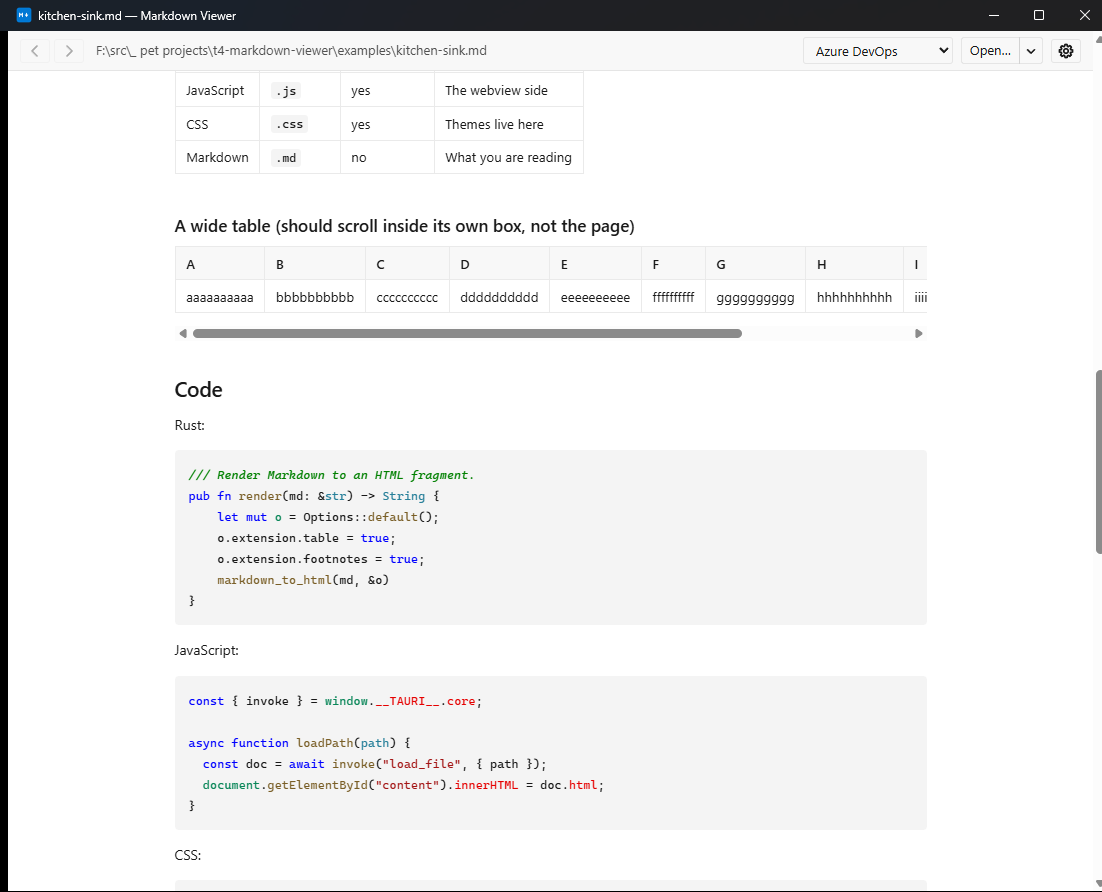
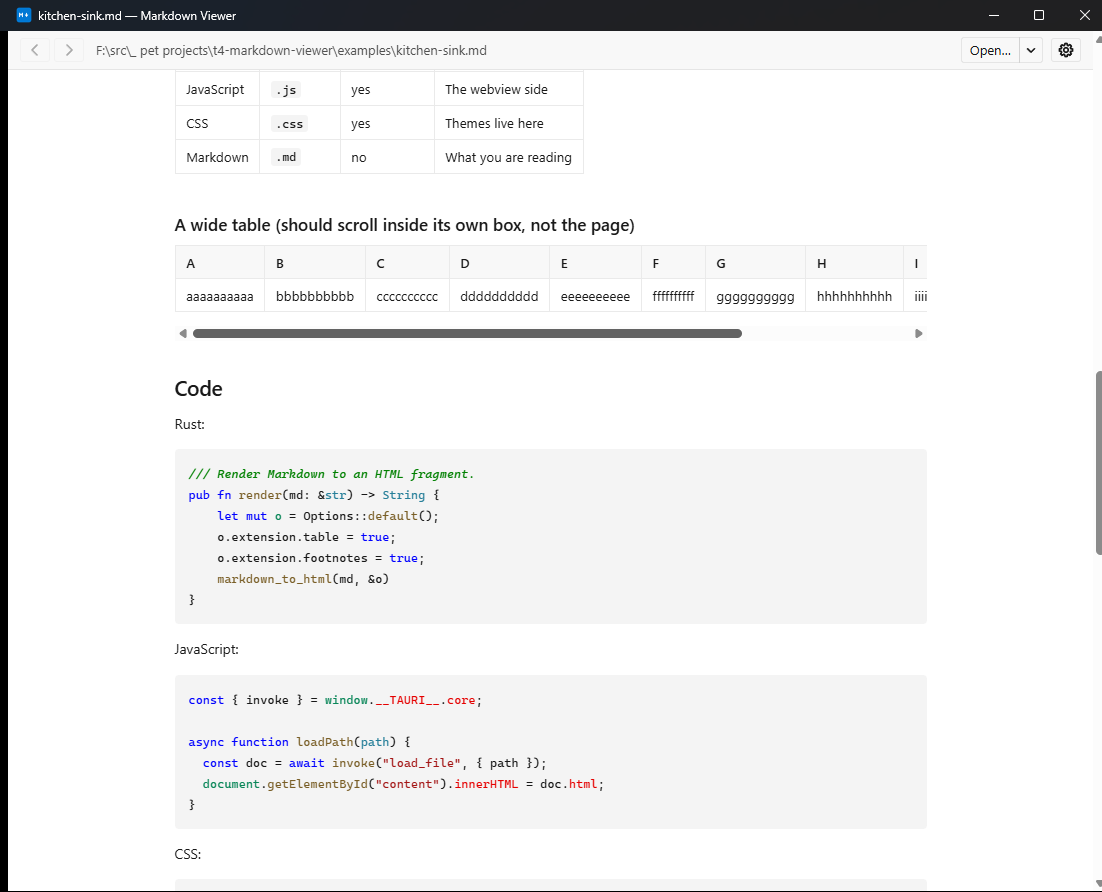
Move the theme picker into Settings, as radios rather than a dropdown
The toolbar is down to Open… and the gear; both pickers now live behind
the gear, where there is room to explain what they do.

Radio buttons instead of the <select>, and that is the substantive part.
A native select's popup is an OS-level widget: `var()` does not resolve
inside it and `color-scheme` is ignored, so every theme file had to carry
two literal colours purely to stop its own dropdown rendering near-white
text on a near-white popup. Twelve such rules are deleted here, the
authoring guide no longer has to explain the trap, and a half-written
theme can no longer produce an unreadable list. Radios also give the
preview for free: arrow keys walk a radio group firing `change` on each
one, so passing over a theme applies it.

Live preview is the reason the backdrop drops from 35% to 12%. A modal
scrim normally wants to be emphatic, but this one sits over the very
thing being previewed, and dimming it lies about the colours on offer.

F8 now works while the dialog is open, since the theme list is in there.
Everything else still yields to the dialog while it is modal.

Verified on a build: picking a theme re-themes the document and the
dialog behind it and writes config.json; F8 with the dialog open moves
the radio and applies; merely opening the dialog writes nothing.

diff --git a/src/app.js b/src/app.js
@@ -12,7 +12,7 @@ const els = {
   forward: document.getElementById("fwd-btn"),
   docName: document.getElementById("doc-name"),
   tabs: document.getElementById("tabs"),
-  picker: document.getElementById("theme-picker"),
+  themeList: document.getElementById("theme-list"),
   openBtn: document.getElementById("open-btn"),
   openMore: document.getElementById("open-more"),
   openMenu: document.getElementById("open-menu"),
@@ -660,11 +660,17 @@ function onTabClick(event) {
 
 /* ---------------- themes ---------------- */
 
+function checkTheme(name) {
+  for (const radio of els.themeList.querySelectorAll("input")) {
+    radio.checked = radio.value === name;
+  }
+}
+
 async function applyTheme(name) {
   try {
     els.themeStyle.textContent = await invoke("read_theme", { name });
     state.theme = name;
-    els.picker.value = name;
+    checkTheme(name);
   } catch (err) {
     console.error("theme load failed", name, err);
   }
@@ -677,15 +683,23 @@ async function selectTheme(name) {
 
 async function loadThemeList() {
   state.themes = await invoke("list_themes");
-  els.picker.replaceChildren(
+  els.themeList.replaceChildren(
     ...state.themes.map((t) => {
-      const opt = document.createElement("option");
-      opt.value = t.name;
-      opt.textContent = t.label;
-      return opt;
+      const radio = document.createElement("input");
+      radio.type = "radio";
+      radio.name = "theme";
+      radio.value = t.name;
+      // Arrow keys move between radios in a group and fire `change` on each
+      // one, so walking the list previews every theme as you pass it.
+      radio.addEventListener("change", () => {
+        if (radio.checked) selectTheme(t.name);
+      });
+      const label = document.createElement("label");
+      label.append(radio, t.label);
+      return label;
     }),
   );
-  if (state.theme) els.picker.value = state.theme;
+  if (state.theme) checkTheme(state.theme);
 }
 
 function cycleTheme(step) {
@@ -738,7 +752,13 @@ function onLinkClick(event) {
 }
 
 async function onKeydown(event) {
-  // The dialog is modal; let it own the keyboard, including Escape to close.
+  if (event.key === "F8") {
+    event.preventDefault();
+    cycleTheme(event.shiftKey ? -1 : 1);
+    return;
+  }
+
+  // Otherwise the dialog is modal: let it own the keyboard, Escape included.
   if (els.settings.open) return;
 
   if (event.key === "Escape" && !els.openMenu.hidden) {
@@ -758,12 +778,6 @@ async function onKeydown(event) {
       go(1);
       return;
     }
-  }
-
-  if (event.key === "F8") {
-    event.preventDefault();
-    cycleTheme(event.shiftKey ? -1 : 1);
-    return;
   }
 
   const ctrl = event.ctrlKey || event.metaKey;
@@ -856,7 +870,6 @@ async function main() {
     });
   }
 
-  els.picker.addEventListener("change", (e) => selectTheme(e.target.value));
   els.content.addEventListener("click", onLinkClick);
   els.back.addEventListener("click", () => go(-1));
   els.forward.addEventListener("click", () => go(1));

diff --git a/src/base.css b/src/base.css
@@ -81,7 +81,6 @@ body {
   gap: 0.25rem;
 }
 
-#bar select,
 #bar button {
   font: inherit;
   color: inherit;
@@ -92,25 +91,10 @@ body {
   cursor: pointer;
 }
 
-#bar select:hover,
 #bar button:hover {
   border-color: var(--ui-accent);
 }
 
-/*
- * Options inherit `color` from the select, so without an explicit rule a
- * light-on-dark theme paints white text into the OS popup and the list becomes
- * invisible. These are the pre-theme defaults; each theme restates them.
- *
- * Literal colors only — the popup is a separate OS-level widget where `var()`
- * does not resolve. Keep these in sync with the :root defaults above.
- */
-#bar select option {
-  background-color: #f5f5f5;
-  color: #1f1f1f;
-}
-
-#bar select:focus-visible,
 #bar button:focus-visible {
   outline: 2px solid var(--ui-accent);
   outline-offset: 1px;
@@ -244,8 +228,13 @@ body {
   box-shadow: 0 10px 40px rgba(0, 0, 0, 0.35);
 }
 
+/*
+ * Deliberately faint. A modal scrim normally wants to be emphatic, but picking
+ * a theme here previews it on the document behind — and a heavy dim would be
+ * lying about the colors you are choosing between.
+ */
 #settings-dialog::backdrop {
-  background: rgba(0, 0, 0, 0.35);
+  background: rgba(0, 0, 0, 0.12);
 }
 
 #settings-dialog form {
@@ -262,6 +251,10 @@ body {
   margin: 0;
   padding: 0;
   border: 0;
+}
+
+#settings-dialog fieldset + fieldset {
+  margin-top: 1.5rem;
 }
 
 #settings-dialog legend {
@@ -290,6 +283,17 @@ body {
 #settings-dialog input[type="radio"] {
   margin: 0;
   accent-color: var(--ui-accent);
+}
+
+/* Two columns so eleven themes do not turn the dialog into a column of names.
+   Capped and scrollable, since a user themes folder has no upper bound. */
+#theme-list {
+  display: grid;
+  grid-template-columns: 1fr 1fr;
+  gap: 0 1rem;
+  max-height: 11rem;
+  overflow-y: auto;
+  scrollbar-width: thin;
 }
 
 #settings-dialog kbd {

diff --git a/src/index.html b/src/index.html
@@ -21,8 +21,6 @@
         </div>
         <div id="doc-name" title=""></div>
         <div id="controls">
-          <select id="theme-picker" title="Theme (F8 cycles)" aria-label="Theme"></select>
-
           <!-- Split button: the face does whatever Settings says, the arrow
                offers the other one for this open only. -->
           <div id="open-split">
@@ -69,6 +67,18 @@
     <dialog id="settings-dialog" aria-labelledby="settings-title">
       <form method="dialog">
         <h2 id="settings-title">Settings</h2>
+
+        <fieldset>
+          <legend>Theme</legend>
+          <p class="hint">
+            Applies the moment you pick it, so the document behind this dialog previews the choice.
+            <kbd>F8</kbd> cycles without opening Settings, and works while it is open.
+          </p>
+          <!-- Radios rather than a <select>: the popup list of a native select
+               is an OS-level widget that no theme can colour, which used to
+               force every theme file to restate two literal colours. -->
+          <div id="theme-list" role="radiogroup" aria-label="Theme"></div>
+        </fieldset>
 
         <fieldset>
           <legend>Opening a file</legend>

diff --git a/src-tauri/themes/_template.css b/src-tauri/themes/_template.css
@@ -45,22 +45,6 @@ body {
   background: #ffffff;
 }
 
-/*
- * The theme dropdown's popup is a separate OS-level widget drawn outside the
- * page. Two consequences:
- *
- *   1. `var()` does not resolve there, so these must be LITERAL colors. Using
- *      var(--ui-bg) silently falls back to base.css's light defaults.
- *   2. `color-scheme` is ignored, so a dark theme must state both colors here
- *      or the options inherit your pale text onto a light popup and vanish.
- *
- * Match these to --ui-bg and --ui-fg above.
- */
-#bar select option {
-  background-color: #f5f5f5;
-  color: #1f1f1f;
-}
-
 /* ---- document ---------------------------------------------------------- */
 /* Everything the renderer produces lives inside .markdown-body. */
 .markdown-body {

diff --git a/src-tauri/themes/azure-devops-dark.css b/src-tauri/themes/azure-devops-dark.css
@@ -29,18 +29,6 @@ body {
   background: #1f1f1f;
 }
 
-/*
- * The <select> popup is drawn as its own OS-level widget, outside the page.
- * `var()` references do not resolve there and `color-scheme` is ignored, so
- * these two must be literal colors — with `var()` the list silently falls back
- * to base.css's light defaults, and on a dark theme the options render as
- * near-white text on a near-white background.
- */
-#bar select option {
-  background-color: #252526;
-  color: rgba(255, 255, 255, 0.9);
-}
-
 /* ---- document ---- */
 .markdown-body {
   font-family: "Segoe UI", -apple-system, BlinkMacSystemFont, Roboto, "Helvetica Neue", Helvetica,

diff --git a/src-tauri/themes/azure-devops.css b/src-tauri/themes/azure-devops.css
@@ -30,18 +30,6 @@ body {
   background: #ffffff;
 }
 
-/*
- * The <select> popup is drawn as its own OS-level widget, outside the page.
- * `var()` references do not resolve there and `color-scheme` is ignored, so
- * these two must be literal colors — with `var()` the list silently falls back
- * to base.css's light defaults, and on a dark theme the options render as
- * near-white text on a near-white background.
- */
-#bar select option {
-  background-color: #f8f8f8;
-  color: rgba(0, 0, 0, 0.9);
-}
-
 /* ---- document ---- */
 .markdown-body {
   font-family: "Segoe UI", -apple-system, BlinkMacSystemFont, Roboto, "Helvetica Neue", Helvetica,

diff --git a/src-tauri/themes/dracula-blue.css b/src-tauri/themes/dracula-blue.css
@@ -30,18 +30,6 @@ body {
   background: #1e2a3a;
 }
 
-/*
- * The <select> popup is drawn as its own OS-level widget, outside the page.
- * `var()` references do not resolve there and `color-scheme` is ignored, so
- * these two must be literal colors — with `var()` the list silently falls back
- * to base.css's light defaults, and on a dark theme the options render as
- * near-white text on a near-white background.
- */
-#bar select option {
-  background-color: #17202c;
-  color: #f2f6fa;
-}
-
 /* ---- document ---- */
 .markdown-body {
   font-family: -apple-system, BlinkMacSystemFont, "Segoe UI", "Noto Sans", Helvetica, Arial,

diff --git a/src-tauri/themes/dracula-green.css b/src-tauri/themes/dracula-green.css
@@ -30,18 +30,6 @@ body {
   background: #242e28;
 }
 
-/*
- * The <select> popup is drawn as its own OS-level widget, outside the page.
- * `var()` references do not resolve there and `color-scheme` is ignored, so
- * these two must be literal colors — with `var()` the list silently falls back
- * to base.css's light defaults, and on a dark theme the options render as
- * near-white text on a near-white background.
- */
-#bar select option {
-  background-color: #1d2620;
-  color: #f2f8f4;
-}
-
 /* ---- document ---- */
 .markdown-body {
   font-family: -apple-system, BlinkMacSystemFont, "Segoe UI", "Noto Sans", Helvetica, Arial,

diff --git a/src-tauri/themes/dracula.css b/src-tauri/themes/dracula.css
@@ -27,18 +27,6 @@ body {
   background: #282a36;
 }
 
-/*
- * The <select> popup is drawn as its own OS-level widget, outside the page.
- * `var()` references do not resolve there and `color-scheme` is ignored, so
- * these two must be literal colors — with `var()` the list silently falls back
- * to base.css's light defaults, and on a dark theme the options render as
- * near-white text on a near-white background.
- */
-#bar select option {
-  background-color: #21222c;
-  color: #f8f8f2;
-}
-
 /* ---- document ---- */
 .markdown-body {
   font-family: -apple-system, BlinkMacSystemFont, "Segoe UI", "Noto Sans", Helvetica, Arial,

diff --git a/src-tauri/themes/github-dark.css b/src-tauri/themes/github-dark.css
@@ -27,18 +27,6 @@ body {
   background: #0d1117;
 }
 
-/*
- * The <select> popup is drawn as its own OS-level widget, outside the page.
- * `var()` references do not resolve there and `color-scheme` is ignored, so
- * these two must be literal colors — with `var()` the list silently falls back
- * to base.css's light defaults, and on a dark theme the options render as
- * near-white text on a near-white background.
- */
-#bar select option {
-  background-color: #151b23;
-  color: #e6edf3;
-}
-
 /* ---- document ---- */
 .markdown-body {
   font-family: -apple-system, BlinkMacSystemFont, "Segoe UI", "Noto Sans", Helvetica, Arial,

diff --git a/src-tauri/themes/github-light.css b/src-tauri/themes/github-light.css
@@ -27,18 +27,6 @@ body {
   background: #ffffff;
 }
 
-/*
- * The <select> popup is drawn as its own OS-level widget, outside the page.
- * `var()` references do not resolve there and `color-scheme` is ignored, so
- * these two must be literal colors — with `var()` the list silently falls back
- * to base.css's light defaults, and on a dark theme the options render as
- * near-white text on a near-white background.
- */
-#bar select option {
-  background-color: #f6f8fa;
-  color: #1f2328;
-}
-
 /* ---- document ---- */
 .markdown-body {
   font-family: -apple-system, BlinkMacSystemFont, "Segoe UI", "Noto Sans", Helvetica, Arial,

diff --git a/src-tauri/themes/sakura.css b/src-tauri/themes/sakura.css
@@ -27,18 +27,6 @@ body {
   background: #f9f9f9;
 }
 
-/*
- * The <select> popup is drawn as its own OS-level widget, outside the page.
- * `var()` references do not resolve there and `color-scheme` is ignored, so
- * these two must be literal colors — with `var()` the list silently falls back
- * to base.css's light defaults, and on a dark theme the options render as
- * near-white text on a near-white background.
- */
-#bar select option {
-  background-color: #f1f1f1;
-  color: #4a4a4a;
-}
-
 /* ---- document ---- */
 .markdown-body {
   font-family: -apple-system, BlinkMacSystemFont, "Segoe UI", "Noto Sans", Helvetica, Arial,
